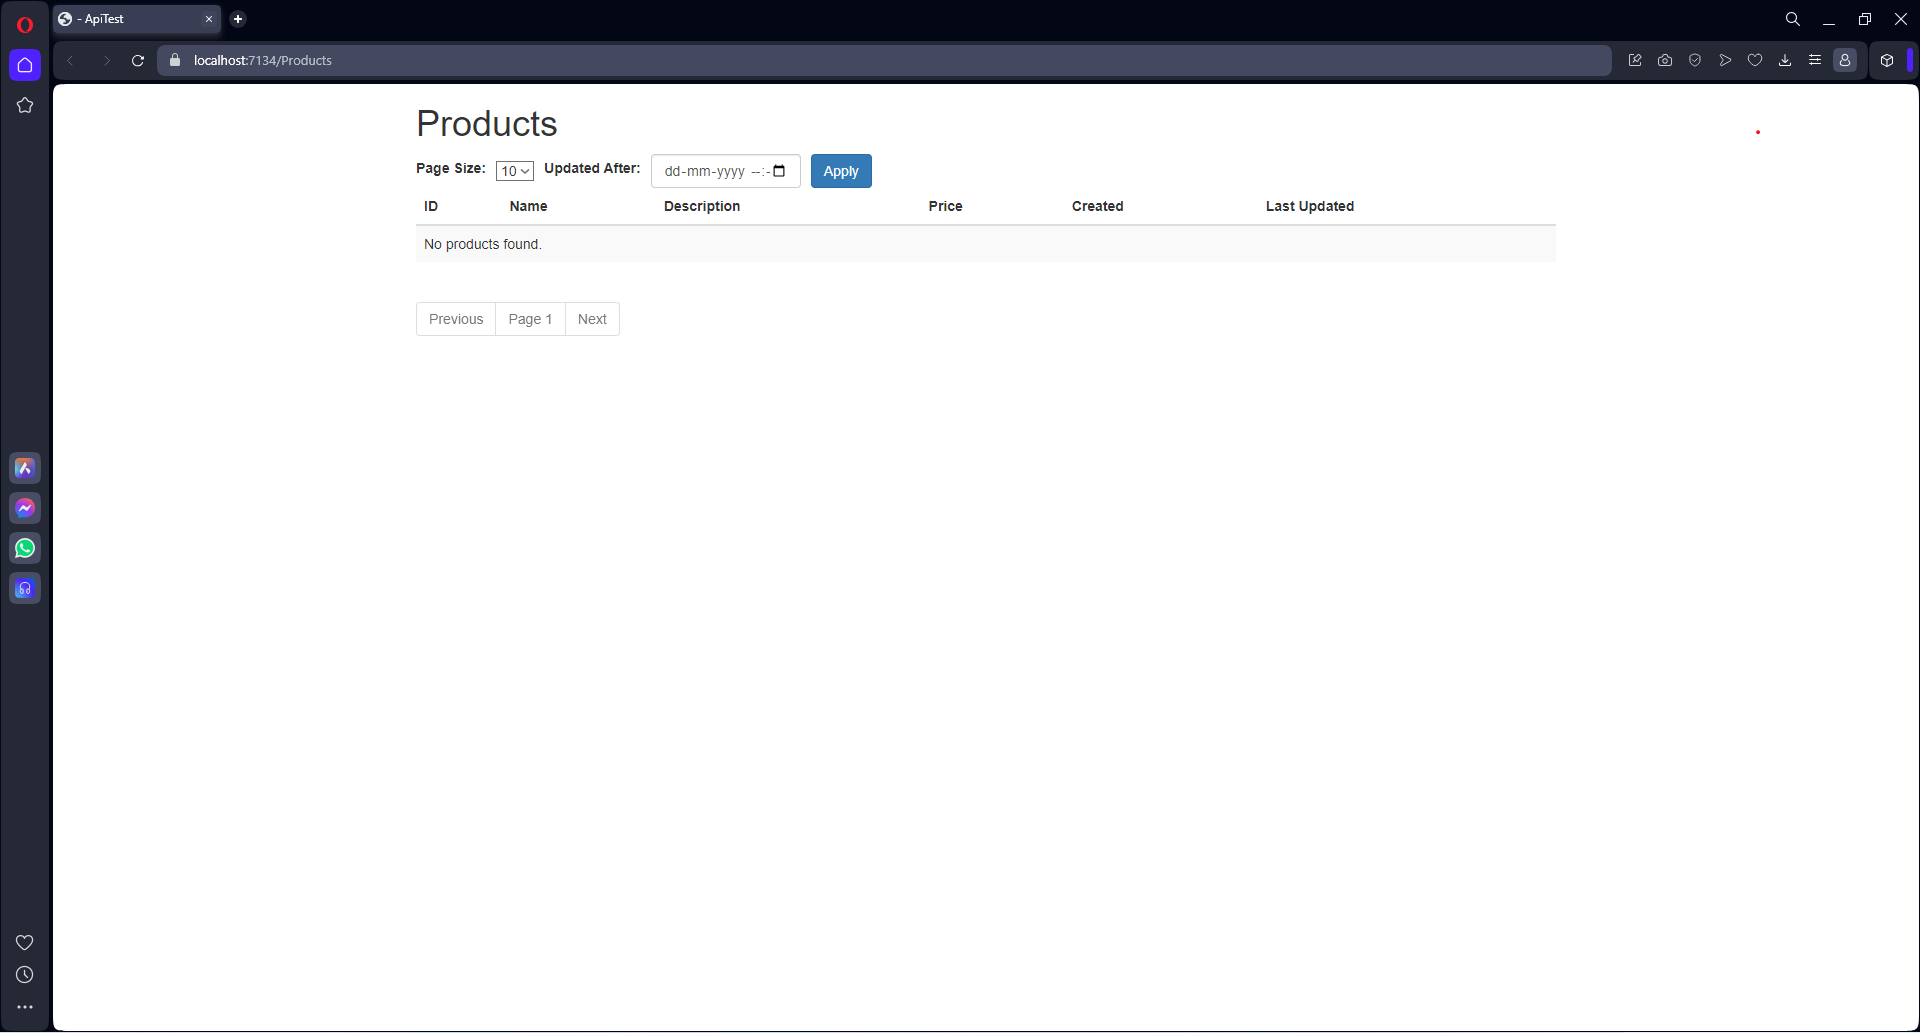
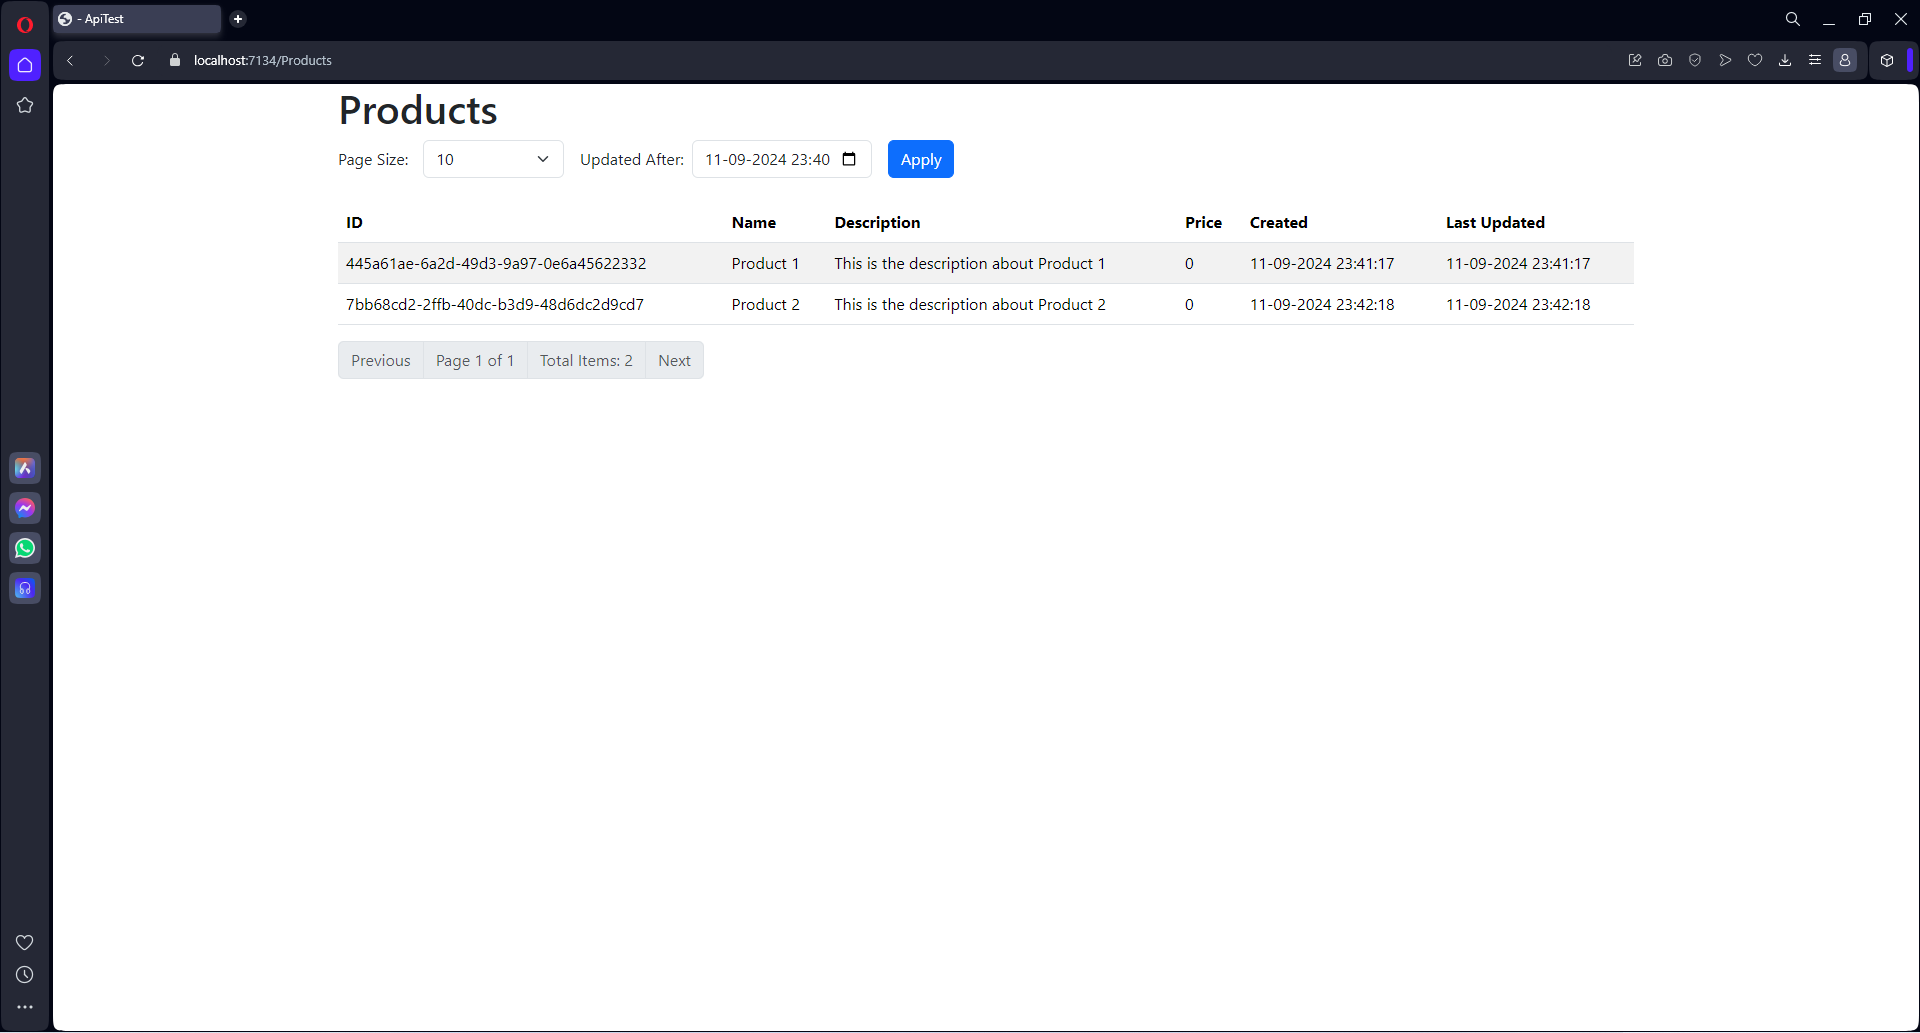
Updated Bootstrap version, added total pages and total items display, and fixed pagination rendering issue. Also updated the screenshot for page

diff --git a/ApiTest/Pages/Products/Index.cshtml.cs b/ApiTest/Pages/Products/Index.cshtml.cs
@@ -41,6 +41,16 @@ namespace ApiTest.Pages.Products
         public DateTime? UpdatedAfter { get; set; }
 
         /// <summary>
+        /// 
+        /// </summary>
+        public int TotalItems { get; set; }
+        
+        /// <summary>
+        /// 
+        /// </summary>
+        public int TotalPages { get; set; }
+
+        /// <summary>
         /// Gets or sets a value indicating whether there are more pages available for pagination.
         /// </summary>
         public bool HasMorePages { get; set; }
@@ -60,16 +70,23 @@ namespace ApiTest.Pages.Products
         /// </remarks>
         public async Task OnGetAsync(int pageNumber = 1, int pageSize = 10, DateTime? updatedAfter = null)
         {
-            PageNumber = pageNumber;
+            PageNumber = pageNumber < 1 ? 1 : pageNumber;
             PageSize = pageSize;
             UpdatedAfter = updatedAfter;
 
             var productsQuery = await _productService.GetAllProductsAsync(updatedAfter);
+            var filteredProducts = productsQuery.OrderBy(p => p.Name);
 
-            var filteredProducts = productsQuery
-                .OrderBy(p => p.Name);
+            TotalItems = filteredProducts.Count(); // Total count for pagination
 
-            var totalProducts = filteredProducts.Count(); // Total count for pagination
+            // Calculate total pages and ensure at least 1 page if there are items
+            TotalPages = TotalItems > 0 ? (int)Math.Ceiling((double)TotalItems / PageSize) : 1;
+
+            // Ensure page number does not exceed total pages
+            if (PageNumber > TotalPages)
+            {
+                PageNumber = TotalPages > 0 ? TotalPages : 1; // Default to page 1 if there are no products
+            }
 
             var productsList = filteredProducts
                 .Skip((PageNumber - 1) * PageSize)
@@ -79,5 +96,9 @@ namespace ApiTest.Pages.Products
             Products = productsList.Take(PageSize).ToList();
             HasMorePages = productsList.Count > PageSize;
         }
+
+
+
+
     }
 }
